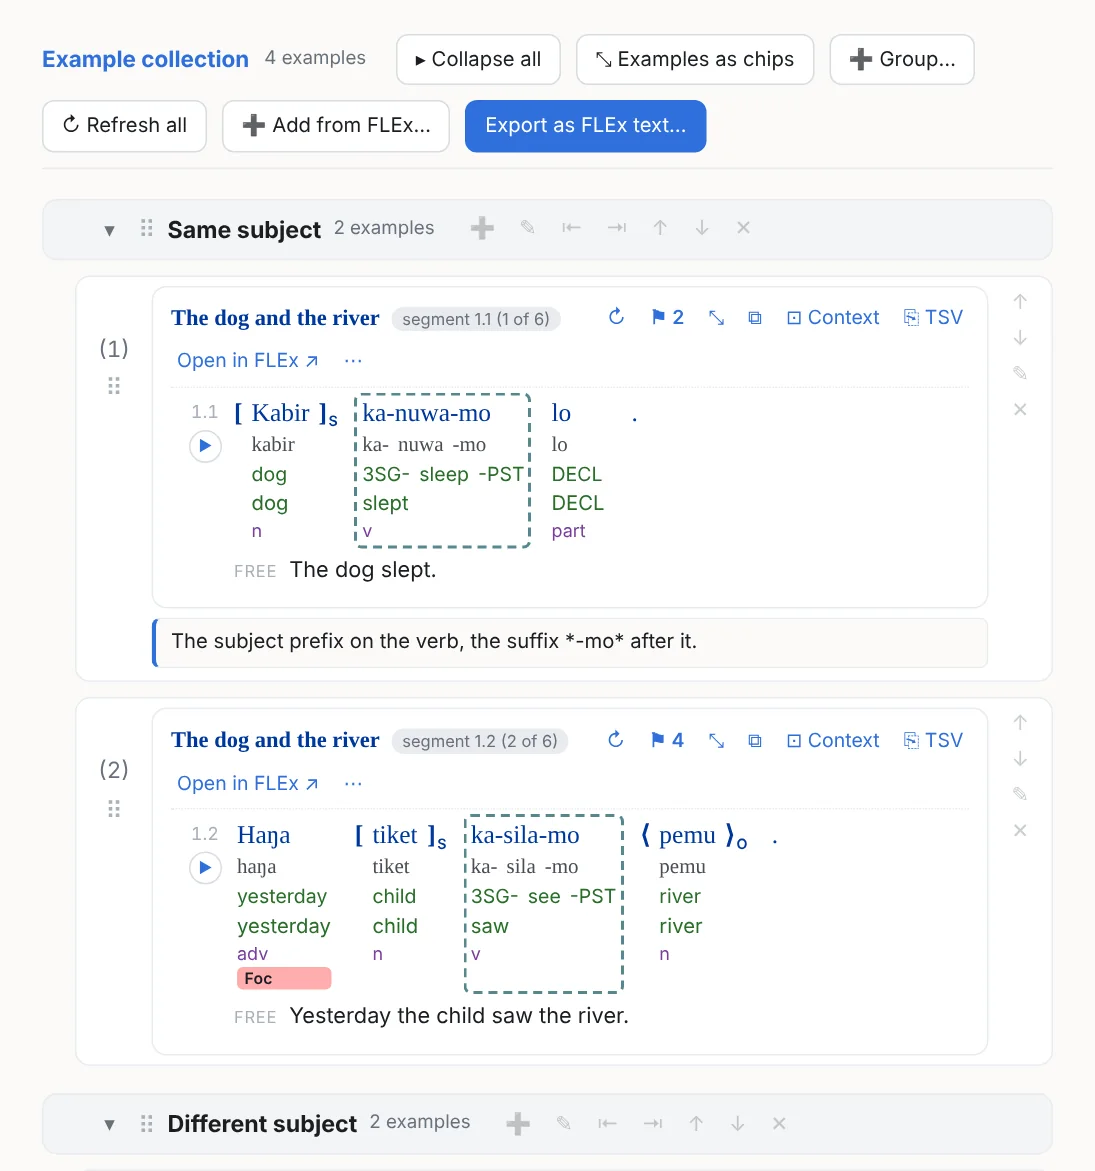
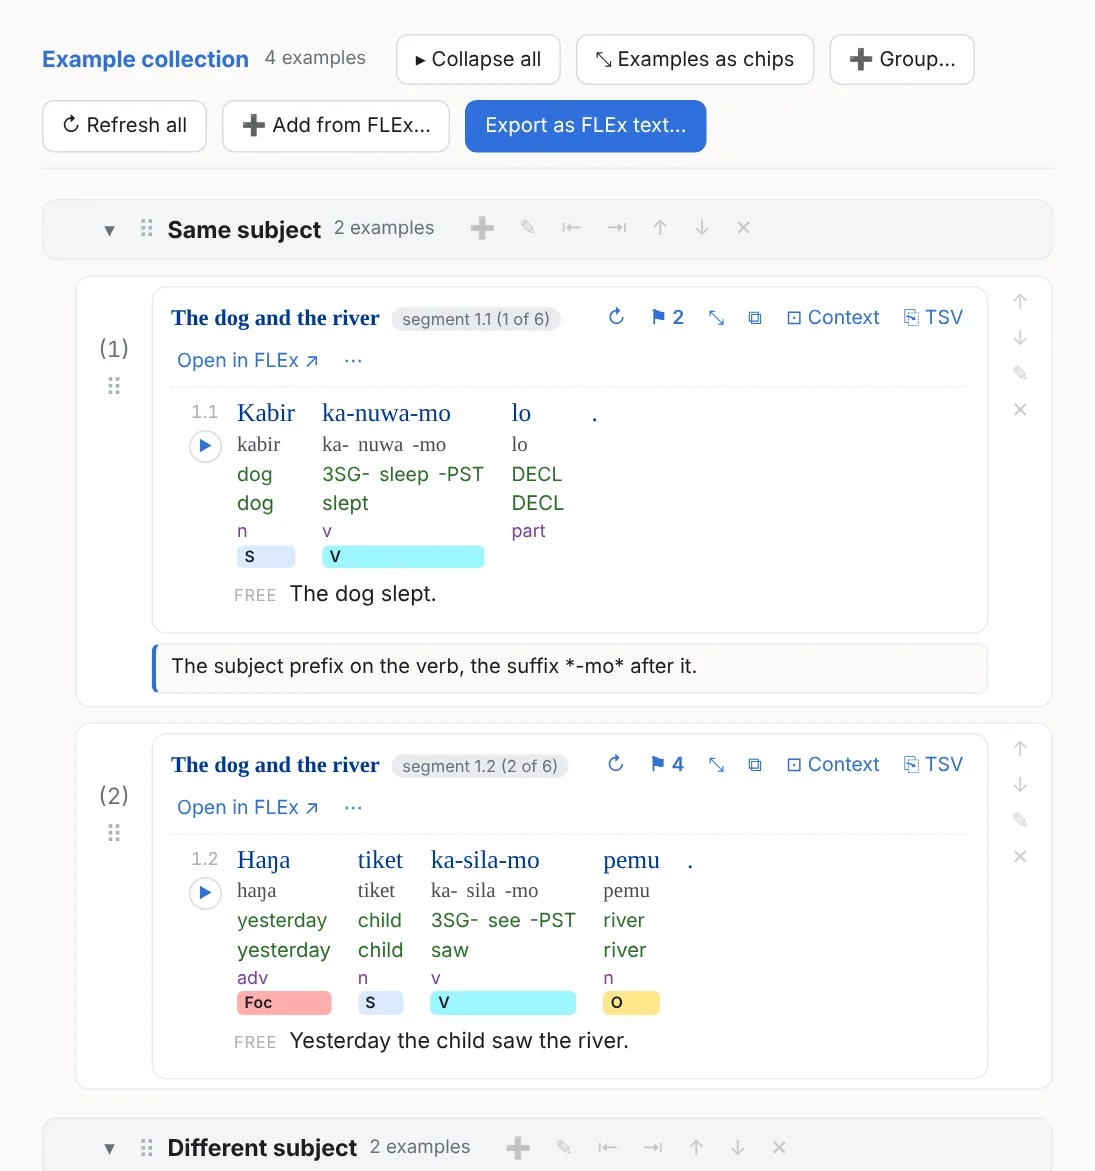
Recordings: keep them out of FLEx's LinkedFiles, keep them in lameta, link lameta projects
Seth, 2026-10-20: "I actually don't recommend that for whole text recordings,
because FLEx will try to send/receive that file and if it's any larger than a
couple megabytes, it'll error and then brick until you move it. For large files,
link them from outside FLEx's own project folder tree"; "Suggest using lameta for
this"; "And linking lameta folders."

- The guide's FAQ no longer says to put recordings in the project's
  LinkedFiles\AudioVisual: it says to keep whole-text recordings outside the
  project folder, explains the Send/Receive failure, suggests lameta, and says
  how a Browse… in FLEx Scratchpad finds them there. The FLEx-text export
  section, the README and the export dialog's own hint say the same; the README's
  duplicated "Audio in the export" row is one row again, with a "Where recordings
  live" row after it.
- flex.lameta_root: when the recording a user browses for sits inside a lameta
  (or SayMore) project — an ancestor folder holding a .sprj file, at most six
  levels up — the program remembers that project's folder rather than the one
  session folder, so the recursive media lookup finds every session's
  recordings. tests/test_flex.py covers it.
- The guide's picture of the export dialog is re-shot with the new hint.

Claude-Session: https://claude.ai/code/session_01LtGJLUkdtoPZMD1rtPSo31

diff --git a/docs/guide/index.html b/docs/guide/index.html
@@ -392,7 +392,7 @@
     <h3 id="co-flextext">Export as a FLEx text</h3>
     <figure class="shot half"><img src="../media/guide/flextext-export.webp" loading="lazy" alt="The FLEx text export dialog: the title, the number of examples, the source note option, the audio choice and the audio folder"><figcaption><span class="ui">Export as FLEx text…</span> at the top of a collection.</figcaption></figure>
     <p><b>Why you would want this.</b> FieldWorks works on one text at a time. A collection exported as a FLEx text makes the examples you chose, from many texts, into <em>one new text</em> you import into FLEx: every serial-verb sentence in your corpus, say, or every clause with a particular particle, side by side as one text you can gloss, tag, chart or concord on its own, without touching the texts they came from. With its audio, it also opens in the FlexText Audio Segmenter to check or cut.</p>
-    <p>Only a collection exports a <code>.flextext</code>: one paragraph per example, one phrase per line, every writing-system alternative, the word identities kept so FieldWorks reuses the analyses on import, a <em>Source</em> note per line naming the text and line it came from. Examples from texts in different baseline writing systems become one file each. The <span class="ui">Audio</span> choice: <b>one audio file for the text</b> (the default: every example's recording in order with a click between examples, named like the .flextext and saved beside it, which the FlexText Audio Segmenter pairs with it by name), <b>one small file per line</b>, the original recordings and offsets, or none; or into a folder you choose, such as the project's <code>LinkedFiles\AudioVisual</code>, which FLEx finds on import. The file is a new text with new identities: importing it cannot touch the texts its examples came from, and the program refuses to write a file FieldWorks' importer would stumble on.</p>
+    <p>Only a collection exports a <code>.flextext</code>: one paragraph per example, one phrase per line, every writing-system alternative, the word identities kept so FieldWorks reuses the analyses on import, a <em>Source</em> note per line naming the text and line it came from. Examples from texts in different baseline writing systems become one file each. The <span class="ui">Audio</span> choice: <b>one audio file for the text</b> (the default: every example's recording in order with a click between examples, named like the .flextext and saved beside it, which the FlexText Audio Segmenter pairs with it by name), <b>one small file per line</b>, the original recordings and offsets, or none; or into a folder you choose, such as a <a href="https://lameta.org/" target="_blank" rel="noopener">lameta</a> session folder; the .flextext then points at the recording by its full path. Keep large recordings out of the project's own <code>LinkedFiles</code>: FieldWorks' Send/Receive fails on files of more than a few megabytes there (<a href="#faq-audio">see the FAQ</a>). The file is a new text with new identities: importing it cannot touch the texts its examples came from, and the program refuses to write a file FieldWorks' importer would stumble on.</p>
   </section>
 
   <!-- ============================================================ 8 -->
@@ -648,7 +648,7 @@
       <li><b>From the FlexText Editor suite.</b> A <code>.flextext</code> written by the FlexText Editor or the Recorder carries each line's times and the name of the recording; the same import keeps them.</li>
       <li><b>A text that is already in FLEx, as text only.</b> Use the <a href="https://audio-segmenter.flextext.app/" target="_blank" rel="noopener">FlexText Audio Segmenter</a>: export the text from FLEx, align the recording to its lines there, and import the result; the lines keep their analyses and gain their times. A release that works inside FLEx directly, without the round trip, is coming soon.</li>
     </ul>
-    <p>Put the recording where FLEx looks for it (the project's <code>LinkedFiles\AudioVisual</code>), and FLEx Scratchpad's ▶ appears on every line of that text; when the file is elsewhere, the example offers <span class="ui">Browse…</span> once and remembers the folder. An <a href="#co-flextext">example collection exported as a FLEx text</a> comes with one recording stitched from its examples, named to pair with it in the Segmenter.</p>
+    <p><b>Where to keep the recordings.</b> Keep whole-text recordings <em>outside</em> the FLEx project's own folder. FieldWorks' Send/Receive tries to carry everything in the project's <code>LinkedFiles</code>, and a recording larger than a few megabytes makes it fail, and keep failing until the file is moved out. A good home is <a href="https://lameta.org/" target="_blank" rel="noopener">lameta</a>, which keeps each session's recordings and their description in a folder of its own; point FLEx at the recordings there rather than copying them into the project. In FLEx Scratchpad an example whose recording is not found offers <span class="ui">Browse…</span>: pick the recording in its lameta session folder, and the program remembers the whole lameta project, so every other session's recordings are found too. An <a href="#co-flextext">example collection exported as a FLEx text</a> comes with one recording stitched from its examples, named to pair with it in the Segmenter.</p>
 
     <h3 id="faq-safe">Can it change my FLEx project?</h3>
     <p>No. It opens the project for reading only, has no code that writes to one, and its own tests fail if any appears. Everything you write lives in your notebook folder. The only files it makes for FLEx are exports you import yourself, as new texts.</p>

diff --git a/flex_scratchpad/ui/js/export.js b/flex_scratchpad/ui/js/export.js
@@ -732,10 +732,10 @@
       audio.appendChild(el('option', { value: 'original' }, 'point at the original recordings (their offsets, as in FLEx)'));
       audio.appendChild(el('option', { value: 'none' }, 'no audio'));
       audio.value = 'bundle';
-      const folder = el('input', { type: 'text', placeholder: 'next to the .flextext — or the project\u2019s LinkedFiles\\AudioVisual', style: { flex: '1 1 auto', minWidth: '0' } });
+      const folder = el('input', { type: 'text', placeholder: 'next to the .flextext — or a folder of your recordings, such as a lameta session', style: { flex: '1 1 auto', minWidth: '0' } });
       const browse = el('button', { class: 'btn', onclick: async () => { try { const f = await FS.api.pick_folder(); if (f) folder.value = f; } catch (e) { FS.toast(e.message, 'error'); } } }, 'Browse…');
       const folderRow = el('div', { class: 'form-row' }, el('label', {}, 'Audio into'), el('div', { style: { display: 'flex', gap: '6px', flex: '1 1 auto', minWidth: '0' } }, folder, browse));
-      const folderNote = el('p', { class: 'small muted' }, 'One audio file is named like its .flextext (the Audio Segmenter pairs them by name); clips per line go into a <name>-audio folder. Choose the project\u2019s LinkedFiles\\AudioVisual folder and the audio is written there with locations FLEx resolves on import; anywhere else the file points at it by full path. 16-bit mono WAV.');
+      const folderNote = el('p', { class: 'small muted' }, 'One audio file is named like its .flextext (the Audio Segmenter pairs them by name); clips per line go into a <name>-audio folder; the .flextext points at them by full path. Keep large recordings out of the FLEx project\u2019s own LinkedFiles folder: FieldWorks\u2019 Send/Receive fails on files of more than a few megabytes there. 16-bit mono WAV.');
       const showFolder = () => { const on = audio.value === 'clips' || audio.value === 'bundle'; folderRow.style.display = on ? '' : 'none'; folderNote.style.display = on ? '' : 'none'; };
       audio.addEventListener('change', showFolder);
       showFolder();

diff --git a/flex_scratchpad/flex/__init__.py b/flex_scratchpad/flex/__init__.py
@@ -1207,11 +1207,14 @@ class FlexService:
             return {"clipUrl": dst.resolve().as_uri(), "clipPath": str(dst)}
 
     def set_media_path(self, media_guid: str, path: str) -> dict:
-        """The user browsed for the real media file: remember it (and its folder for siblings)."""
+        """The user browsed for the real media file: remember it, and its folder for its siblings —
+        or, when it lives in a lameta project, the PROJECT's folder, so one Browse… finds every
+        session's recordings (Seth, 2026-10-20: keep whole-text recordings out of FLEx's own
+        project tree, "suggest using lameta for this … and linking lameta folders")."""
         with self.lock:
             mc = self.media_config
             mc.setdefault("byGuid", {})[media_guid] = path
-            folder = str(Path(path).parent)
+            folder = str(lameta_root(path) or Path(path).parent)
             if folder not in mc.setdefault("folders", []):
                 mc["folders"].append(folder)
             self.nb.save_config()
@@ -1220,6 +1223,23 @@ class FlexService:
                 if hasattr(self.backend, "media_folders"):
                     self.backend.media_folders = list(mc["folders"])
             return mc
+
+
+def lameta_root(path: str | Path) -> Path | None:
+    """The lameta (or SayMore) project folder a file lives in: the nearest ancestor holding a
+    `.sprj` project file, looked for no more than six levels up (lameta keeps a session's files in
+    `<project>/Sessions/<session>/`). None when the file is not in one."""
+    p = Path(path).parent
+    for _ in range(6):
+        try:
+            if any(c.suffix.lower() == ".sprj" and c.is_file() for c in p.iterdir()):
+                return p
+        except OSError:
+            return None
+        if p.parent == p:
+            break
+        p = p.parent
+    return None
 
 
 # --------------------------------------------------------------------------- chart search helpers

diff --git a/tests/test_flex.py b/tests/test_flex.py
@@ -613,3 +613,19 @@ def test_snapshot_writes_from_many_threads_and_a_failing_write_keep_the_live_rea
     svc.cache = broken
     o = svc.get_object("text", T_STORY, 1, 2)
     assert o["cached"] is False and o["segments"]
+
+
+def test_a_recording_in_a_lameta_project_remembers_the_project_folder(tmp_path):
+    """Seth, 2026-10-20: keep whole-text recordings out of FLEx's project tree, in lameta, and link
+    them from there; one Browse… in a lameta project finds every session's recordings."""
+    from flex_scratchpad.flex import lameta_root
+    proj = tmp_path / "Kalu archive"
+    (proj / "Sessions" / "story-01").mkdir(parents=True)
+    (proj / "Sessions" / "story-02").mkdir(parents=True)
+    (proj / "Kalu archive.sprj").write_text("<Project/>", encoding="utf-8")
+    a = proj / "Sessions" / "story-01" / "story-01.wav"
+    b = proj / "Sessions" / "story-02" / "story-02.wav"
+    a.write_bytes(b"RIFF"); b.write_bytes(b"RIFF")
+    assert lameta_root(a) == proj
+    loose = tmp_path / "elsewhere" / "x.wav"; loose.parent.mkdir(); loose.write_bytes(b"RIFF")
+    assert lameta_root(loose) is None

diff --git a/README.md b/README.md
@@ -188,8 +188,8 @@ elsewhere (marked *cached*).
 | Merged cells | A cell FLEx merged with its empty neighbour counts for **both columns** (it could be either): searches, rule columns, the column profile, hidden empty columns and *Line up on* match either; it is drawn with the owner column's look round the words and the neighbour's look round that, and labelled `S+V` in the one-column layouts. **Where to change it: the chart's `⋯` menu → *Merged cells*** (saved in the chart object as `merge=`): *both columns* (the default), *both named, the owner's look only* (`labels`: the `S+V` label stays, one border), *the owner's look and name only* (`lookowner`: still both for searches and rules), or *the owner column only* for everything (`owner`). Merged cells are also a **visual-filter target** (the ⚑ button → *Chart structure*, or *+ Add a tag…* in a filter): *Merged cells (any)*, *merged into the column to the right / left*, and each owner column that has merged cells in this chart ("PRED merged right"); such a rule's tile, border, brackets, colour or bold is drawn on the merged part over the columns' looks. |
 | Style a column | ⚑ on a chart lists its columns with the markers and the text's tags: *Style ▾* on a column gives its cells a tint, a border, a colour, bold / italic / underline (brackets and the rest in the one-column view and on examples), for this chart, the note, a folder, the tab, the text, the whole notebook or a visual filter; the checkbox hides the column. A column heading's popover has *Style this column everywhere…* |
 | Export a FLEx text | Why: it makes the examples you chose, from many texts, into ONE new text you import into FLEx, so a set of isolated sentences (every serial-verb construction, every clause with a given particle) can be glossed, tagged, charted or concorded together without touching the texts they came from. Only an example collection exports: *Export as FLEx text…* at its top. An ordinary note's `⋯ → Collect the examples into a new collection…` copies its examples into one: the examples in the highlighted part of the note if you selected some, else all of them |
-| Audio in the export | The export dialog's *Audio*: **one audio file for the text** (the default: each example's audio in order, a click between examples, named like the .flextext and saved beside it) or **one small file per line**; or into a folder you choose — pick the project's `LinkedFiles\AudioVisual` and FLEx finds it on import. Examples from texts in different baseline writing systems become one .flextext each, with its own audio |
-| Audio in the export | The export dialog's *Audio*: **one audio file for the text** (the default: every line's clip in order, a click at each join, as the text's media file) or **one small file per line**; either into a folder you choose — pick the project's `LinkedFiles\AudioVisual` and FLEx finds it on import |
+| Audio in the export | The export dialog's *Audio*: **one audio file for the text** (the default: each example's audio in order, a click between examples, named like the .flextext and saved beside it) or **one small file per line**; or into a folder you choose, such as a [lameta](https://lameta.org/) session folder, which the .flextext points at by full path. Keep large recordings out of the FLEx project's own `LinkedFiles`: FieldWorks' Send/Receive fails on files of more than a few megabytes there, and keeps failing until they are moved. Examples from texts in different baseline writing systems become one .flextext each, with its own audio |
+| Where recordings live | Outside the FLEx project's folder, e.g. in [lameta](https://lameta.org/). When an example's recording is not found it offers *Browse…*; a file picked inside a lameta project makes the program remember the whole lameta project, so every session's recordings are found |
 
 ### What a note looks like on disk
 

diff --git a/build/RELEASE-NOTES.md b/build/RELEASE-NOTES.md
@@ -4,6 +4,7 @@ FLEx Scratchpad is a notebook for FieldWorks: notes in tabs and folders that sho
 
 ### New in this pre-release
 
+- **Recordings kept in lameta.** Picking a missing recording inside a [lameta](https://lameta.org/) project now makes the program remember the whole project, so every session's recordings are found. The guide and the export dialog now advise keeping whole-text recordings out of the FLEx project's own LinkedFiles folder, where FieldWorks' Send/Receive fails on files of more than a few megabytes.
 - **The bar / line / pie chart block is gone.** It was never what a linguist's notebook needed and it muddled the word "chart", which here means FieldWorks' text charts. A note that still holds a ```chart block shows it as a code block; a picture made in another program can be attached instead. Text charts and tables stay.
 - **A user guide on the website** ([rulingants.github.io/flex-scratchpad/guide](https://rulingants.github.io/flex-scratchpad/guide/)): everything the program does, section by section with a table of contents, every picture taken from the real program. Also: a quotation in a note exported without its `>` markers (the web page and Word exports kept them).
 - **A FLEx concordance search becomes a collection.** Run the concordance (or complex concordance) in FieldWorks, *File › Export Concordance Results…*, then `+ New ▾` → *New collection from a FLEx concordance export…* and choose that CSV: every line it lists is placed in your project (the text by its name in any writing system, the line by FLEx's number, the baseline checked) and becomes an example, in the file's order; what could not be placed is listed at the end of the collection.

diff --git a/CLAUDE.md b/CLAUDE.md
@@ -38,7 +38,12 @@ Built 2026-10-12 with Seth; the decisions below are his.
   promises it to users, and `tests/test_read_only.py` fails on any write access in the code
   (`writeEnabled=True`, a unit of work, an undo task, a save). The only files written are the
   notebook's own and the exports the user saves (a `.flextext` is a NEW text with new GUIDs,
-  imported by the user; its audio may go into LinkedFiles only when the user chooses that folder).
+  imported by the user; its audio may go into LinkedFiles only when the user chooses that folder — and the docs never
+  RECOMMEND that: Seth, 2026-10-20, FLEx's Send/Receive "will try to send/receive that file and if it's any larger than a
+  couple megabytes, it'll error and then brick until you move it"; whole-text recordings belong outside the project tree,
+  ideally in lameta ("suggest using lameta for this … and linking lameta folders": `flex.lameta_root` makes a Browse… inside a
+  lameta project remember the project's folder, the nearest ancestor with a `.sprj`, so the recursive media lookup finds
+  every session).
   The `.flextext` file source is a *fallback* (texts only), the demo is for
   tests; LCM is the product.
 - **One LCM thread.** pywebview calls `js_api` methods on arbitrary threads and LCM is not
